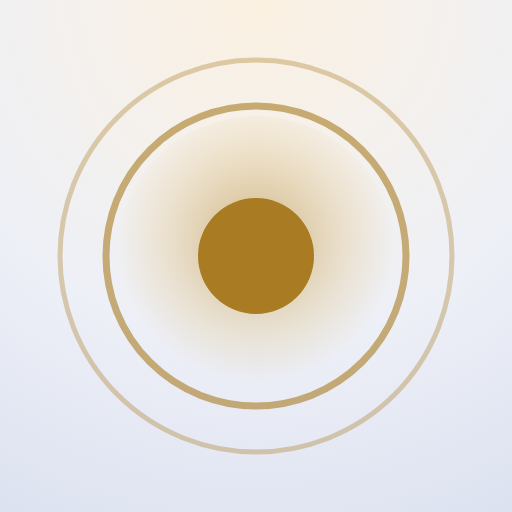
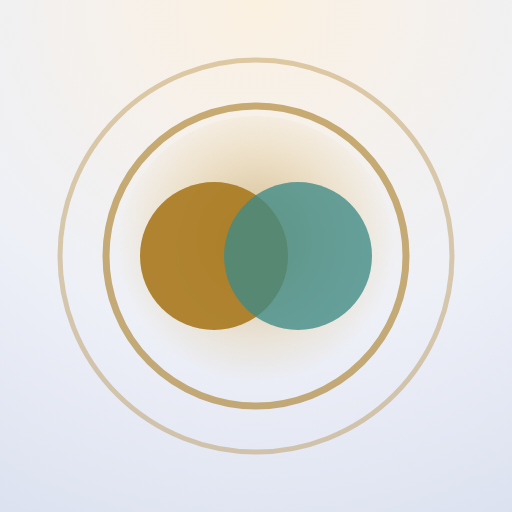
Publish book 2026-11-27 11:19 UTC

Changed region(s): [[0.25, 0.3438, 0.75, 0.6562]]

diff --git a/index.html b/index.html
@@ -1,8 +1,8 @@
-<!doctype html><html lang="en"><head><meta charset="utf-8"><meta name="viewport" content="width=device-width,initial-scale=1,viewport-fit=cover"><title>Vocal Mastery</title>
+<!doctype html><html lang="en"><head><meta charset="utf-8"><meta name="viewport" content="width=device-width,initial-scale=1,viewport-fit=cover"><title>Kindred</title>
 <meta name="claude:viewport-fit-sides" content="cover">
 <meta name="apple-mobile-web-app-capable" content="yes">
 <meta name="apple-mobile-web-app-status-bar-style" content="default">
-<meta name="apple-mobile-web-app-title" content="Vocal Mastery">
+<meta name="apple-mobile-web-app-title" content="Kindred">
 <meta name="theme-color" content="#fbf1e1">
 <link rel="apple-touch-icon" href="icon-180.png">
 <link rel="manifest" href="manifest.webmanifest">
@@ -610,7 +610,7 @@ body.hf-on #tabs,body.hf-on #dock{display:none}
 </style>
 
 </head><body><header class="top">
-  <button class="brand" id="brand" aria-label="Today"><span class="mk"><svg viewBox="0 0 64 64" xmlns="http://www.w3.org/2000/svg" aria-hidden="true"><circle cx="32" cy="32" r="20" fill="var(--rose)" opacity=".28"/><circle cx="32" cy="32" r="11" fill="var(--rose)"/><circle cx="32" cy="32" r="28" fill="none" stroke="currentColor" stroke-width="2.5" opacity=".55"/></svg></span><span class="bt">Vocal <em>Mastery</em></span></button>
+  <button class="brand" id="brand" aria-label="Today"><span class="mk"><svg viewBox="0 0 64 64" xmlns="http://www.w3.org/2000/svg" aria-hidden="true"><circle cx="26" cy="32" r="13" fill="var(--rose)" opacity=".9"/><circle cx="38" cy="32" r="13" fill="var(--teal)" opacity=".75"/><circle cx="32" cy="32" r="28" fill="none" stroke="currentColor" stroke-width="2.5" opacity=".55"/></svg></span><span class="bt"><em>Kindred</em></span></button>
   <div class="tools">
     <span class="streak singer" id="singer-name" hidden></span>
     <span class="streak" id="streak" hidden></span>

diff --git a/sw.js b/sw.js
@@ -1,7 +1,7 @@
 // Offline after the first visit, but always prefer the freshest copy when online.
 // The cache name is versioned per build (build_book.py replaces the version), so every publish makes a
 // new worker that takes over immediately and drops the old cache — updates land on the next reload.
-const C = 'vocal-mastery-book-20261126101209';
+const C = 'vocal-mastery-book-20261127061922';
 const FILES = ['./', 'index.html', 'manifest.webmanifest', 'icon-192.png', 'icon-512.png', 'icon-180.png', 'clips/chylandyk.mp3', 'clips/fry.mp3', 'clips/kargyraa.mp3', 'clips/kulning.mp3', 'clips/sygyt.mp3', 'clips/trill.mp3', 'clips/trillslow.mp3', 'clips/yodel.mp3'];
 
 self.addEventListener('install', e => { self.skipWaiting(); e.waitUntil(caches.open(C).then(c => c.addAll(FILES))); });
